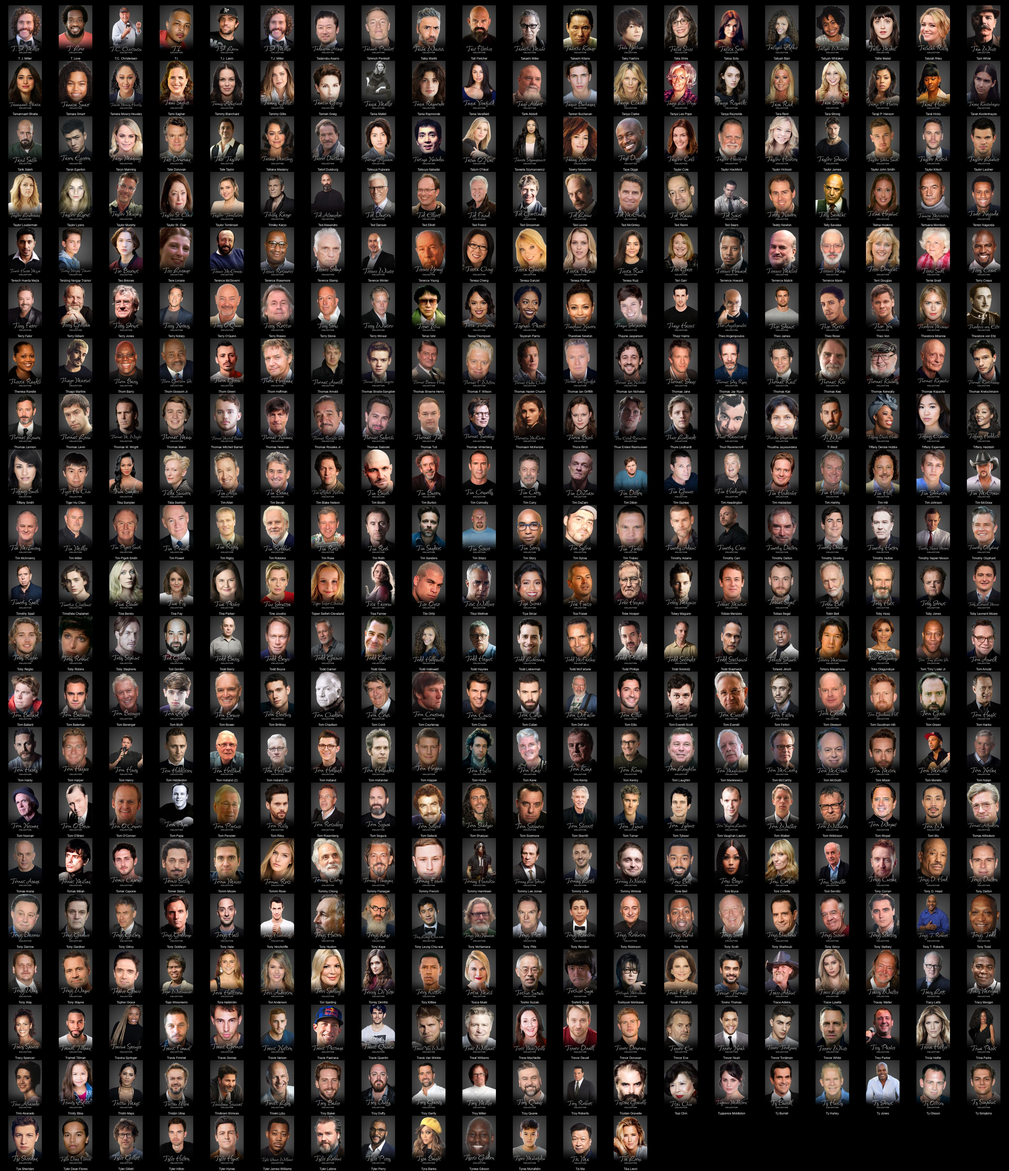
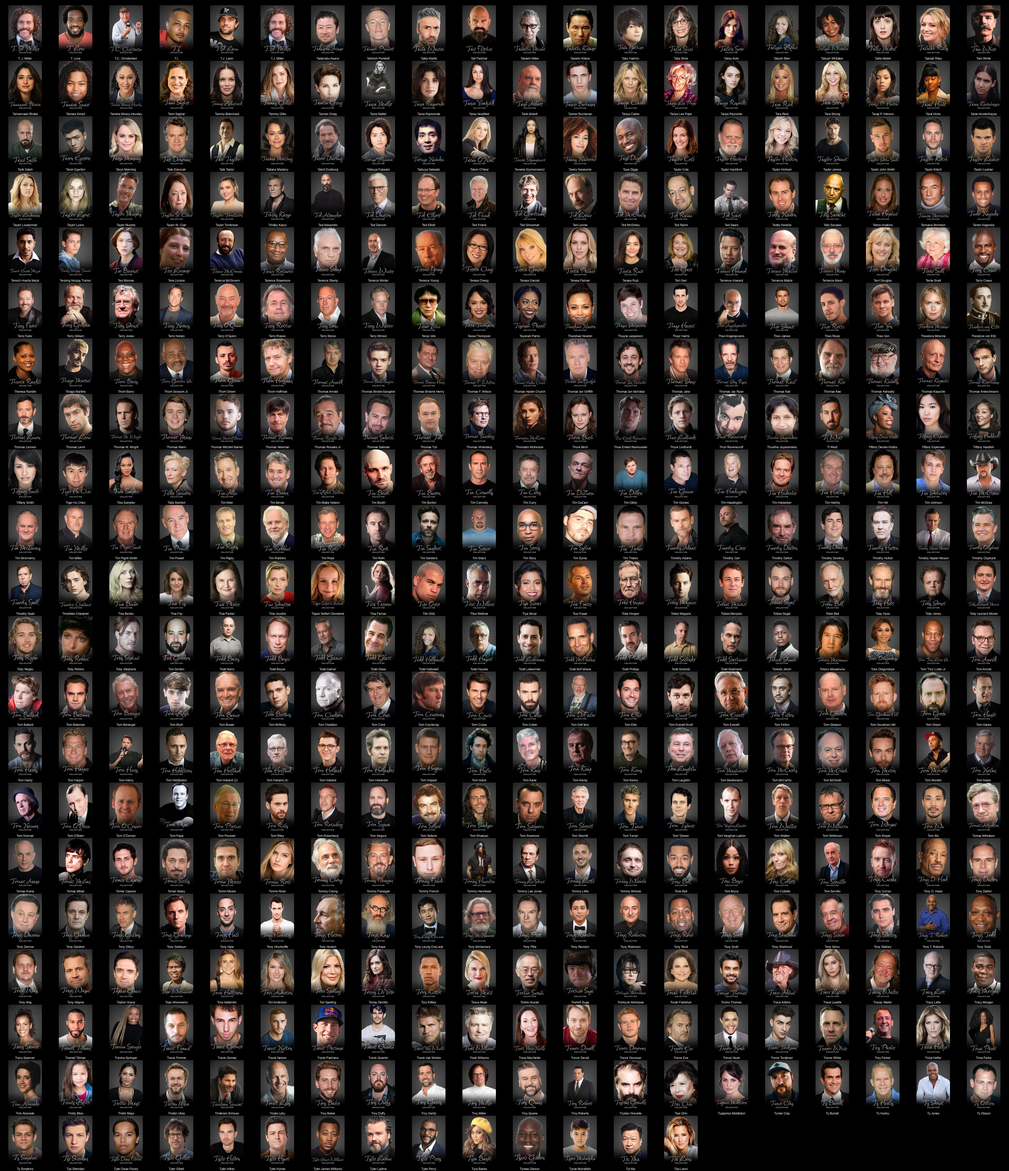
Readme Update

Changed region(s): [[0.3125, 0.9375, 0.6875, 1.0], [0.0, 0.9375, 0.2812, 1.0], [0.75, 0.9062, 1.0, 0.9688]]

diff --git a/README.md b/README.md
@@ -1,4 +1,4 @@
-# Plex Meta Manager People - Signature (signature) (8704 Images)
+# Plex Meta Manager People - Signature (signature) (8705 Images)
 
 <details><summary><a href="'">' (1 Images)</a></summary>
 
@@ -7966,7 +7966,7 @@
 * [Søren Pilmark](https://raw.githubusercontent.com/meisnate12/Plex-Meta-Manager-People-signature/master/S/Images/S%C3%B8ren%20Pilmark.jpg)
 * [Sō Yamanaka](https://raw.githubusercontent.com/meisnate12/Plex-Meta-Manager-People-signature/master/S/Images/S%C5%8D%20Yamanaka.jpg)
 </details>
-<details><summary><a href="T">T (413 Images)</a></summary>
+<details><summary><a href="T">T (414 Images)</a></summary>
 
 * [T. J. Miller](https://raw.githubusercontent.com/meisnate12/Plex-Meta-Manager-People-signature/master/T/Images/T.%20J.%20Miller.jpg)
 * [T. Love](https://raw.githubusercontent.com/meisnate12/Plex-Meta-Manager-People-signature/master/T/Images/T.%20Love.jpg)
@@ -8363,6 +8363,7 @@
 * [Trystan Gravelle](https://raw.githubusercontent.com/meisnate12/Plex-Meta-Manager-People-signature/master/T/Images/Trystan%20Gravelle.jpg)
 * [Tsai Chin](https://raw.githubusercontent.com/meisnate12/Plex-Meta-Manager-People-signature/master/T/Images/Tsai%20Chin.jpg)
 * [Tuppence Middleton](https://raw.githubusercontent.com/meisnate12/Plex-Meta-Manager-People-signature/master/T/Images/Tuppence%20Middleton.jpg)
+* [Turner Clay](https://raw.githubusercontent.com/meisnate12/Plex-Meta-Manager-People-signature/master/T/Images/Turner%20Clay.jpg)
 * [Ty Burrell](https://raw.githubusercontent.com/meisnate12/Plex-Meta-Manager-People-signature/master/T/Images/Ty%20Burrell.jpg)
 * [Ty Hurley](https://raw.githubusercontent.com/meisnate12/Plex-Meta-Manager-People-signature/master/T/Images/Ty%20Hurley.jpg)
 * [Ty Jones](https://raw.githubusercontent.com/meisnate12/Plex-Meta-Manager-People-signature/master/T/Images/Ty%20Jones.jpg)

diff --git a/T/README.md b/T/README.md
@@ -1,4 +1,4 @@
-# Plex Meta Manager People - Signature (signature) - T (413 Images)
+# Plex Meta Manager People - Signature (signature) - T (414 Images)
 ![Grid](grid.jpg)
 
 * [T. J. Miller](https://raw.githubusercontent.com/meisnate12/Plex-Meta-Manager-People-signature/master/T/Images/T.%20J.%20Miller.jpg)
@@ -396,6 +396,7 @@
 * [Trystan Gravelle](https://raw.githubusercontent.com/meisnate12/Plex-Meta-Manager-People-signature/master/T/Images/Trystan%20Gravelle.jpg)
 * [Tsai Chin](https://raw.githubusercontent.com/meisnate12/Plex-Meta-Manager-People-signature/master/T/Images/Tsai%20Chin.jpg)
 * [Tuppence Middleton](https://raw.githubusercontent.com/meisnate12/Plex-Meta-Manager-People-signature/master/T/Images/Tuppence%20Middleton.jpg)
+* [Turner Clay](https://raw.githubusercontent.com/meisnate12/Plex-Meta-Manager-People-signature/master/T/Images/Turner%20Clay.jpg)
 * [Ty Burrell](https://raw.githubusercontent.com/meisnate12/Plex-Meta-Manager-People-signature/master/T/Images/Ty%20Burrell.jpg)
 * [Ty Hurley](https://raw.githubusercontent.com/meisnate12/Plex-Meta-Manager-People-signature/master/T/Images/Ty%20Hurley.jpg)
 * [Ty Jones](https://raw.githubusercontent.com/meisnate12/Plex-Meta-Manager-People-signature/master/T/Images/Ty%20Jones.jpg)
